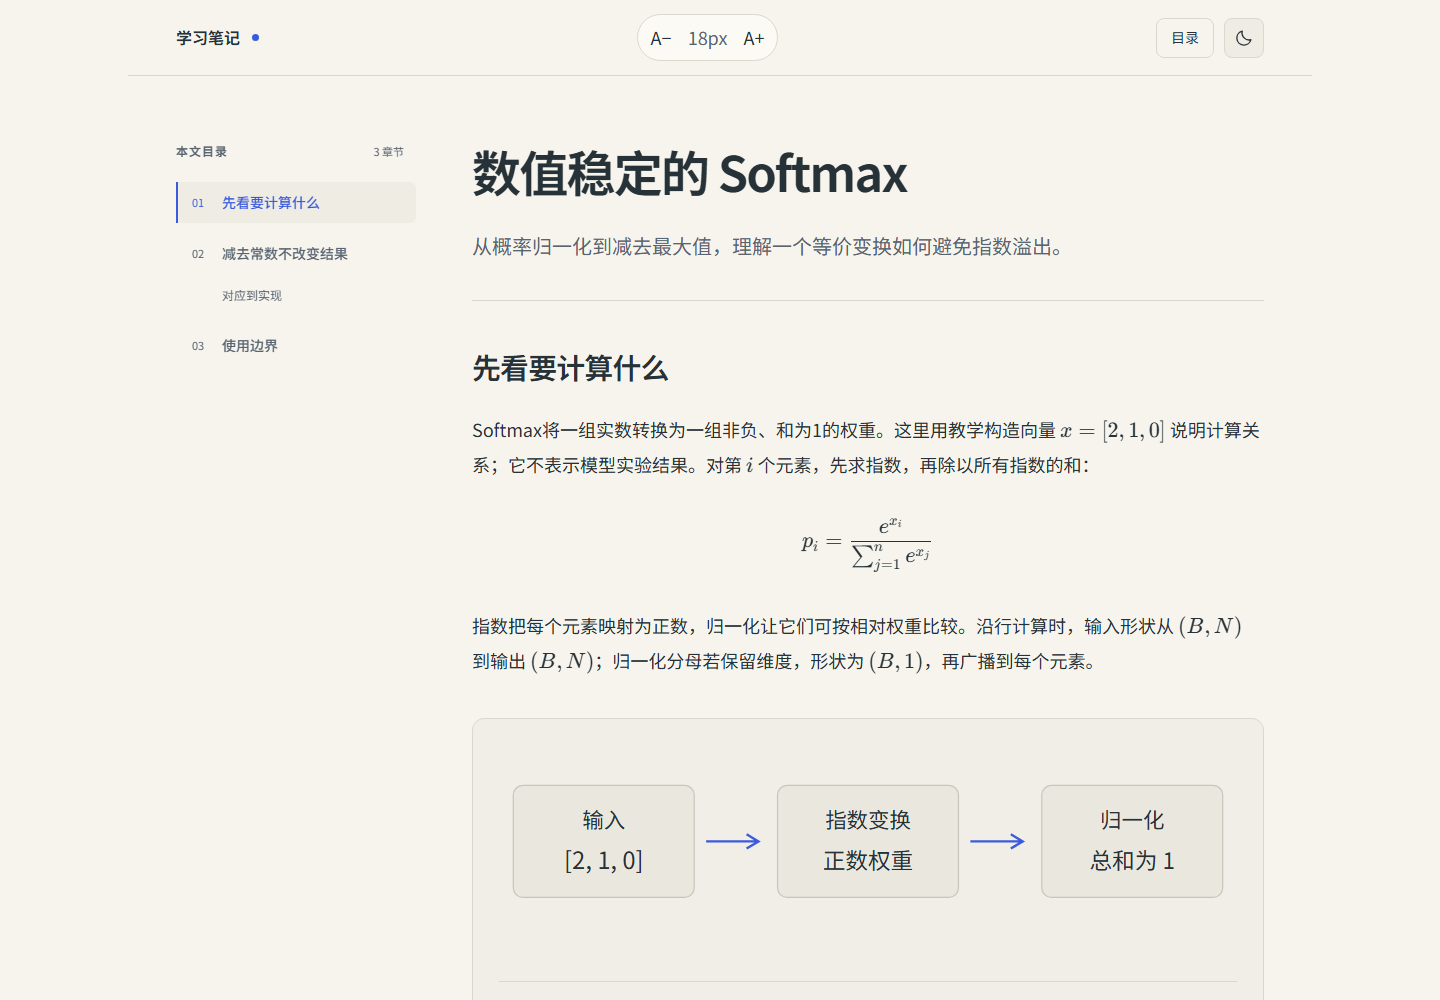
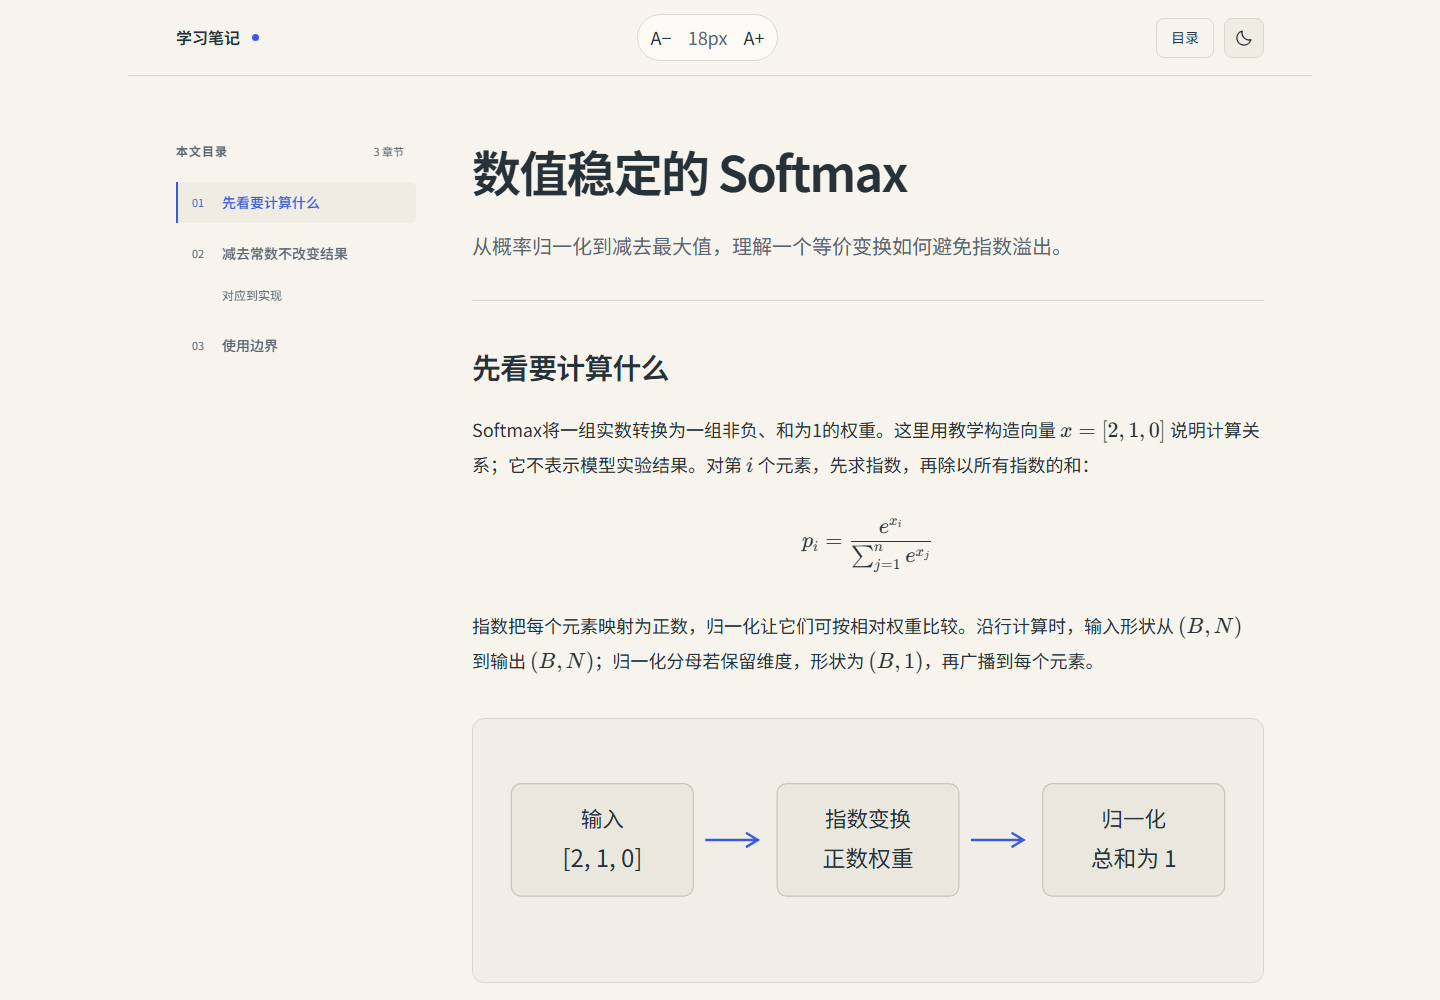
Separate diagram captions and clarify article sources

diff --git a/assets/content/content.css b/assets/content/content.css
@@ -100,8 +100,15 @@ figure.media-plate figcaption { color: #586571; }
 .theme-dark, :root[data-theme="dark"] .theme-light { display: none; }
 :root[data-theme="dark"] .theme-dark { display: block; }
 figcaption { margin-top: 22px; padding-top: 18px; border-top: 1px solid var(--line); color: var(--muted); font-size: .85em; line-height: 1.8; }
+.prose figure:not(.media-plate) { padding: 0; border: 0; border-radius: 0; background: transparent; }
+.prose figure:not(.media-plate) > svg { padding: 24px; border: 1px solid var(--line); border-radius: 12px; background: var(--figure-bg); }
+.prose figure:not(.media-plate) figcaption { margin-top: 14px; padding-top: 0; border-top: 0; font-size: .88em; }
 .prose figure.media-plate { padding: 16px 16px 20px; }
 .prose figure.media-plate img { border-radius: 5px; }
+.prose .article-sources { margin-top: 48px; padding-top: 24px; border-top: 1px solid var(--line); font-size: .9em; line-height: 1.8; color: var(--muted); }
+.prose .article-sources .sources-title { margin-bottom: 16px; font-weight: 600; color: var(--text); }
+.prose .article-sources p { margin-bottom: 14px; }
+.prose .article-sources p:last-child { margin-bottom: 0; }
 .katex { color: inherit; }
 .katex .text { font-family: KaTeX_Main, "Content Sans", sans-serif; }
 .katex-display { margin: 28px 0 !important; overflow-x: auto; overflow-y: hidden; padding: 8px 0; }

diff --git a/scripts/check_chrome_zoom.py b/scripts/check_chrome_zoom.py
@@ -99,7 +99,8 @@ def check_chrome_zoom(source, *, scene, output_dir, browser_executable):
                         if zoom == 2 and scene != 'report':
                             for name, selector in (('figure', '.prose figure'), ('code', '.prose .code-block'),
                                                    ('code-wrapped', '.prose .code-block'),
-                                                   ('table', '.prose .table-wrap'), ('details', '.prose details')):
+                                                   ('table', '.prose .table-wrap'), ('details', '.prose details'),
+                                                   ('sources', '.prose .article-sources')):
                                 if page.locator(selector).count():
                                     if name == 'code-wrapped':
                                         block = page.locator(selector).first

diff --git a/references/content-workflow.md b/references/content-workflow.md
@@ -39,6 +39,8 @@ python -X utf8 scripts/render_content.py "<run_dir>/work/index.html" --scene lea
 
 独立Markdown图片后紧跟以“图1”等开头的斜体图注时，构建器将两者组合为figure；一般文字不自动当图注。原图保持原貌，自绘SVG使用主题变量。
 
+长文需要集中列出处时，可在工作稿写`<aside class="article-sources" aria-label="来源">`，内含`<p class="sources-title">来源</p>`及带链接的出处段落，最后关闭`</aside>`。它使用次要字号与正常字形，不加入正文目录；来源和图示说明由实际材料提供，模板不自动生成。关键论断的引用仍放在论断附近。
+
 首次构建前显式执行 `python -X utf8 scripts/download_content_fonts.py`，下载并校验固定版本Noto Sans SC（思源黑体系列）缓存。构建器用FontTools/Brotli按实际字符制作WOFF2子集，中文正文、标题、SVG、代码中文和备注可离线显示；字体及OFL许可内嵌成品，完整缓存不入Git。来源见[字体说明](../assets/vendor/noto-sans-sc/README.md)。仍需核对实际中文字形与字体，而不只看CSS声明。
 
 不引入React/Next/Astro后台；正文片段可按内容调整排版，模板不是固定图数或章节数的约束。来源链接允许联网跳转，但阅读不依赖联网。不要在成品追加制作记录或机器检查表。

diff --git a/references/template-design.md b/references/template-design.md
@@ -24,4 +24,6 @@
 
 长文标题区参考[AstroPaper实际文章](https://astro-paper.pages.dev/posts/astro-paper-v5/)的标题与真实元信息层级：正文不重复工具栏已有的身份标签。采用其连续阅读的组织思路，具体字号、留白和公式强调根据本项目长文实测，不照搬作者、日期或宣传组件。
 
+来源区借鉴[Material脚注](https://squidfunk.github.io/mkdocs-material/reference/footnotes/)将补充信息与主线分开的组织方式。本模板使用作者明确提供的来源块，保留出处与图示说明，不自动改写引用或增加工具提示。
+
 代码的文件名、重点行与复制操作参考[Nextra代码功能](https://nextra.site/docs/guide/syntax-highlighting)，长行可选换行借鉴[Elementor Code Highlight的Word Wrap](https://elementor.com/help/code-highlight-pro/)行为。只在出现水平溢出时提供换行入口，以控制工具栏密度；不引入相关框架或插件。

diff --git a/demos/content/learning.md b/demos/content/learning.md
@@ -50,4 +50,7 @@ probabilities = weights / weights.sum(axis=-1, keepdims=True)
 
 上述说明假设输入是有限实数；包含无穷或NaN时应按实际应用另行定义行为。这里解释数值稳定性，不声称改变模型预测能力，也没有给出运行速度实验。
 
-来源：[SciPy softmax 文档](https://docs.scipy.org/doc/scipy/reference/generated/scipy.special.softmax.html)。
+<aside class="article-sources" aria-label="来源">
+<p class="sources-title">来源</p>
+<p><a href="https://docs.scipy.org/doc/scipy/reference/generated/scipy.special.softmax.html">SciPy softmax 文档</a>。</p>
+</aside>
